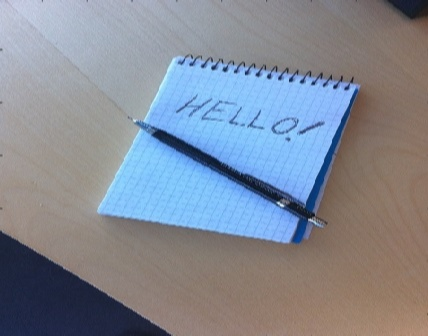
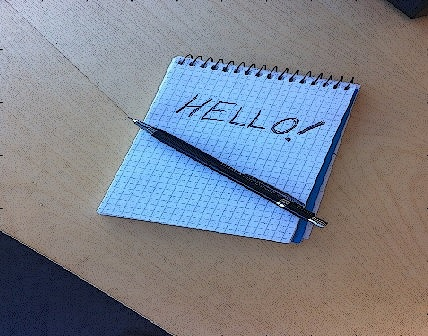
Finished Spatial Domain Filters

diff --git a/DigitalImageProcessing/ImageProcessingGUI/ImageOperations/SpatialDomainFilter.py b/DigitalImageProcessing/ImageProcessingGUI/ImageOperations/SpatialDomainFilter.py
@@ -9,10 +9,46 @@ def meanFilter(image):
 def medianFilter(image):
     return np.uint8(cv2.medianBlur(src=image, ksize=3))
 
-def gaussianFilter(image, sigma=1):
+def gaussianFilter(image, sigma=0.5):
     gaussianMatrix = cv2.getGaussianKernel(ksize=3, sigma=sigma)
+    gaussianMatrix = gaussianMatrix*np.transpose(gaussianMatrix)
     return np.uint8(cv2.filter2D(src=image, ddepth=-1, kernel=gaussianMatrix))
+
+def laplacianFilter(image, connectivity=4):
+    laplacianMatrix = None
+    if connectivity==8:
+        laplacianMatrix = np.array([
+            [1, 1, 1],
+            [1, -8, 1],
+            [1, 1, 1]
+        ])
+    else:
+        laplacianMatrix = np.array([
+            [0, 1, 0],
+            [1, -4, 1],
+            [0, 1, 0]
+        ])
+    return np.uint8(cv2.filter2D(src=image, ddepth=-1, kernel=laplacianMatrix))
+
+def LoGFilter(image, sigma=0.5, connectivity=4):
+    return laplacianFilter(gaussianFilter(image,sigma), connectivity)
+
+def highboostFilter(image, A=8):
+    boostMatrix = np.ones((3,3))*-1
+    boostMatrix[1,1] = max(A, 8)
+    return np.uint8(cv2.filter2D(src=image, ddepth=-1, kernel=boostMatrix))
+
+def unsharpMaskFilter(image, mask='gaussian'):
+    mask_dict = {
+        'gaussian': gaussianFilter,
+        'laplacian': laplacianFilter,
+        'log': LoGFilter,
+        'highboost': highboostFilter
+    }
+    alpha = 1
+    if mask=='gaussian': alpha = 2
+    return np.uint8(cv2.addWeighted(image, alpha, mask_dict[mask](image), -1, 0))
 
 if __name__ == "__main__":
     img = cv2.imread("hello.jpg")
-    cv2.imwrite("output.jpg", gaussianFilter(img))
+    cv2.imwrite("output.jpg", unsharpMaskFilter(img, 'laplacian'))
